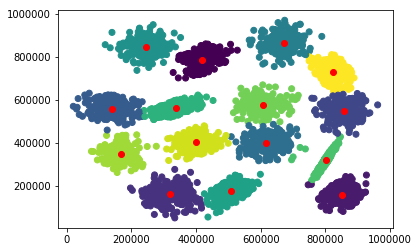
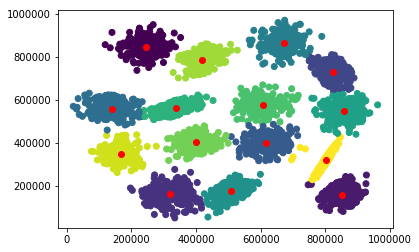
rnk updates correctly

diff --git a/KMeans.py b/KMeans.py
@@ -74,8 +74,10 @@ class KMeans:
         counter = 0
         centroids = self.centroid_selector(data)
         rnk = self.membership(data, centroids)
+        centroids_2 = centroids
+        rnk_2 = rnk
         while(counter <self.iterations):
-            centroids_2 = self.update_centroids(data, centroids, rnk)
+            centroids_2 = self.update_centroids(data, centroids_2, rnk)
             rnk_2 = self.membership(data, centroids_2)
             if self.stopping_Criteria(data, centroids, centroids_2, rnk, rnk_2):
                 centroids = centroids_2

diff --git a/notebook.md b/notebook.md
@@ -8,10 +8,6 @@ import matplotlib.pylab as plt
 from KMeans import KMeans
 ```
 
-    /home/mostafakm/miniconda3/lib/python3.7/site-packages/matplotlib/figure.py:457: UserWarning: matplotlib is currently using a non-GUI backend, so cannot show the figure
-      "matplotlib is currently using a non-GUI backend, "
-
-
 
 ```python
 from sklearn.datasets import make_blobs
@@ -20,8 +16,12 @@ class_ = KMeans(X, 4, iterations = 5)
 class_.train()
 ```
 
+    /home/mostafakm/miniconda3/lib/python3.7/site-packages/matplotlib/figure.py:457: UserWarning: matplotlib is currently using a non-GUI backend, so cannot show the figure
+      "matplotlib is currently using a non-GUI backend, "
 
-![png](output_2_0.png)
+
+
+![png](output_2_1.png)
 
 
 
